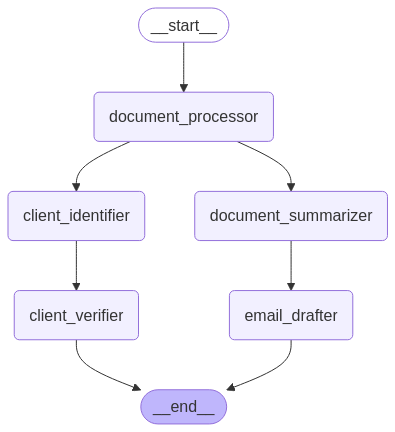
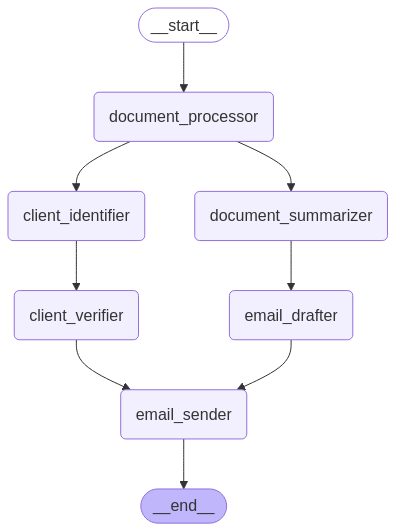
Working POC

diff --git a/app.py b/app.py
@@ -47,8 +47,8 @@ with st.sidebar:
     print(f"Uploaded file ---->: {uploaded_file}")
 
     st.header("Email Configuration")
-    recipient_email = st.text_input("Recipient Email", "example@example.com")
-    email_from_alias = st.text_input("Email From Alias", "AI Agent")
+    recipient_email = st.text_input("Recipient Email", "tyagiamit08@gmail.com")
+    email_from_alias = st.text_input("Email From Alias", "AI Agent 30Mar")
     
     #Generate workflow graph
     if st.button("Show Workflow Graph"):
@@ -66,30 +66,30 @@ col1, col2 = st.columns([3, 1])
 
 # Progress indicators in the right column
 with col2:
-    # st.header("Workflow Progress")
+    st.header("Workflow Progress")
     
-    # steps = [
-    #     "Document Upload",
-    #     "Document Processing",
-    #     "Client Identification",
-    #     "Client Verification",
-    #     "Document Summarization",
-    #     "Email Drafting",
-    #     "Email Sending"
-    # ]
+    steps = [
+        "Document Upload",
+        "Document Processing",
+        "Client Identification",
+        "Client Verification",
+        "Document Summarization",
+        "Email Drafting",
+        "Email Sending"
+    ]
     
-    # # Display progress
-    # for i, step in enumerate(steps):
-    #     if st.session_state.current_step is None:
-    #         status = "⚪" if i > 0 else "🔵" if uploaded_file else "⚪"
-    #     elif i < steps.index(st.session_state.current_step):
-    #         status = "✅"
-    #     elif i == steps.index(st.session_state.current_step):
-    #         status = "🔵"
-    #     else:
-    #         status = "⚪"
+    # Display progress
+    for i, step in enumerate(steps):
+        if st.session_state.current_step is None:
+            status = "⚪" if i > 0 else "🔵" if uploaded_file else "⚪"
+        elif i < steps.index(st.session_state.current_step):
+            status = "✅"
+        elif i == steps.index(st.session_state.current_step):
+            status = "🔵"
+        else:
+            status = "⚪"
         
-    #     st.write(f"{status} {step}")
+        st.write(f"{status} {step}")
     
     # Display graph visualization if available
     if st.session_state.graph_image:
@@ -181,17 +181,18 @@ with col1:
                         st.write(f"### Event : {step_mapping[event_name]}")
                         st.json(event)
                     
-                    # if event["type"] == "end":
-                    #     final_state = event["state"]
-                    #     st.session_state.results = {
-                    #         "document_content": final_state.document_content[:1000] + "..." if len(final_state.document_content) > 1000 else final_state.document_content,
-                    #         "clients": final_state.clients,
-                    #         "verified_clients": final_state.verified_clients,
-                    #         "summary": final_state.summary,
-                    #         "email_details": final_state.email_details,
-                    #         "email_sent": final_state.email_sent
-                    #     }
-                    #     st.session_state.processing_complete = True
+                    if event_name == "email_sender":
+                        print(f"!!!!!!!!!!!!!!!!!!Workflow completed successfully. !!!!!!!!!!!!!!!!!!")
+                        final_state = event["email_sender"]
+                        st.session_state.results = {
+                            "document_content": final_state["document_content"][:1000] + "..." if len(final_state["document_content"]) > 1000 else final_state["document_content"],
+                            "clients": final_state["clients"],
+                            "verified_clients": final_state["verified_clients"],
+                            "summary": final_state["summary"],
+                            "email_details": final_state["email_details"],
+                            "email_sent": final_state["email_sent"]
+                        }
+                        st.session_state.processing_complete = True
                     #     break
                 # st.rerun()
 
@@ -206,31 +207,31 @@ with col1:
                 os.unlink(temp_file_path)
     
     # # Display results if processing is complete
-    # if st.session_state.processing_complete and st.session_state.results:
-    #     results = st.session_state.results
+    if st.session_state.processing_complete and st.session_state.results:
+        results = st.session_state.results
         
-    #     with st.expander("Document Content (Preview)", expanded=False):
-    #         st.text_area("Content", results["document_content"], height=200)
+        with st.expander("Document Content (Preview)", expanded=False):
+            st.text_area("Content", results["document_content"], height=200)
         
-    #     with st.expander("Identified Clients", expanded=True):
-    #         if results["clients"]:
-    #             for i, client in enumerate(results["clients"].clients):
-    #                 st.write(f"- {client.name}")
+        with st.expander("Identified Clients", expanded=True):
+            if results["clients"]:
+                for i, client in enumerate(results["clients"]):
+                    st.write(f"- {client}")
         
-    #     with st.expander("Verified Clients", expanded=True):
-    #         for client in results["verified_clients"]:
-    #             st.write(f"- {client}")
+        with st.expander("Verified Clients", expanded=True):
+            for client in results["verified_clients"]:
+                st.write(f"- {client}")
         
-    #     with st.expander("Document Summary", expanded=True):
-    #         st.write(results["summary"])
+        with st.expander("Document Summary", expanded=True):
+            st.write(results["summary"])
         
-    #     with st.expander("Email Details", expanded=True):
-    #         if results["email_details"]:
-    #             st.subheader("Subject")
-    #             st.write(results["email_details"].subject)
-    #             st.subheader("Body")
-    #             st.write(results["email_details"].body)
+        with st.expander("Email Details", expanded=True):
+            if results["email_details"]:
+                st.subheader("Subject")
+                st.write(results["email_details"].subject)
+                st.subheader("Body")
+                st.write(results["email_details"].body)
         
-    #     if results["email_sent"]:
-    #         st.success("Email sent successfully!")
+        if results["email_sent"]:
+            st.success("Email sent successfully!")
 

diff --git a/src/graph.py b/src/graph.py
@@ -207,7 +207,7 @@ def create_workflow_graph(document_path: str):
     workflow.add_node("client_verifier", client_verifier)
     workflow.add_node("document_summarizer", document_summarizer)
     workflow.add_node("email_drafter", email_drafter)
-    # workflow.add_node("email_sender", email_sender)
+    workflow.add_node("email_sender", email_sender)
 
     # workflow.add_edge(START,"document_processor")
     # workflow.add_edge("document_processor", "client_identifier")
@@ -234,9 +234,9 @@ def create_workflow_graph(document_path: str):
     workflow.add_edge("document_processor", "document_summarizer")
     workflow.add_edge("client_identifier", "client_verifier")
     workflow.add_edge("document_summarizer", "email_drafter")
-    # workflow.add_edge("document_summarizer", "email_drafter")
-    workflow.add_edge("client_verifier", END)
-    workflow.add_edge("email_drafter", END)
+    workflow.add_edge("client_verifier", "email_sender")
+    workflow.add_edge("email_drafter", "email_sender")
+    workflow.add_edge("email_sender", END)
 
     # Set the entry point
     workflow.set_entry_point("document_processor")
